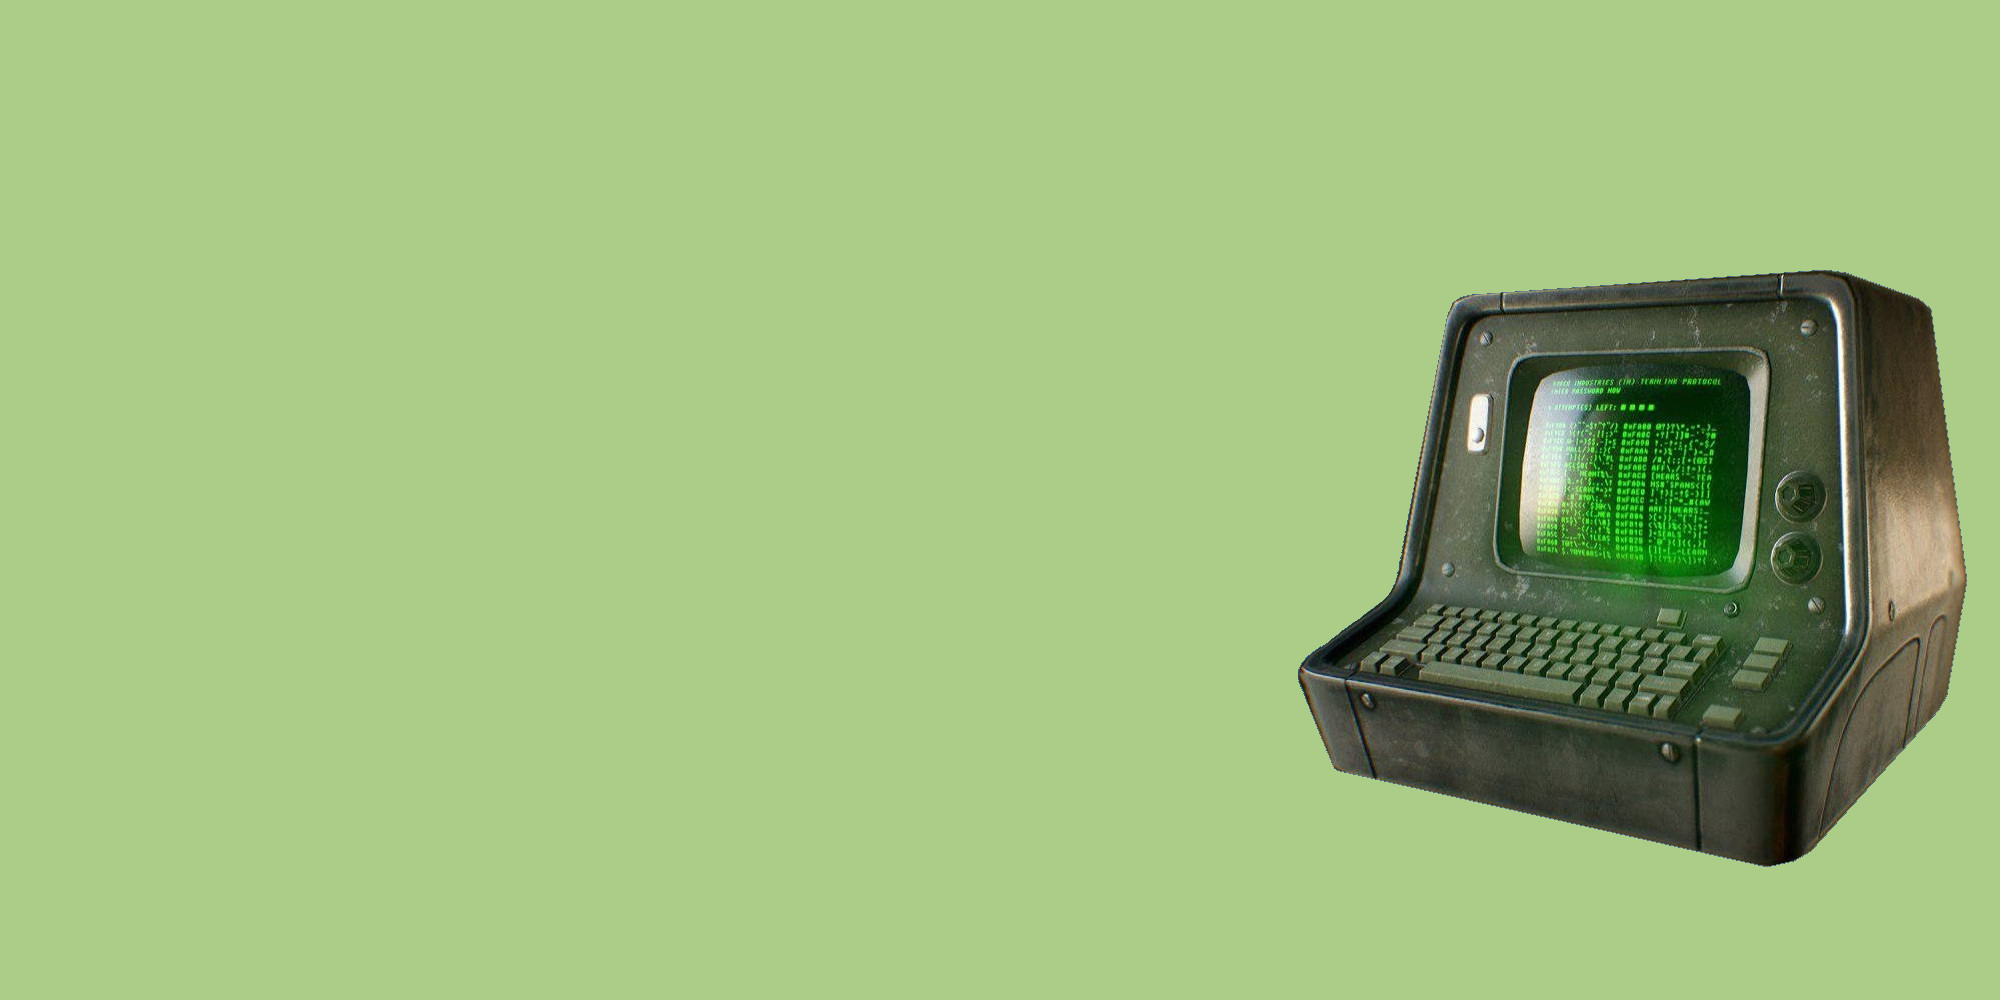
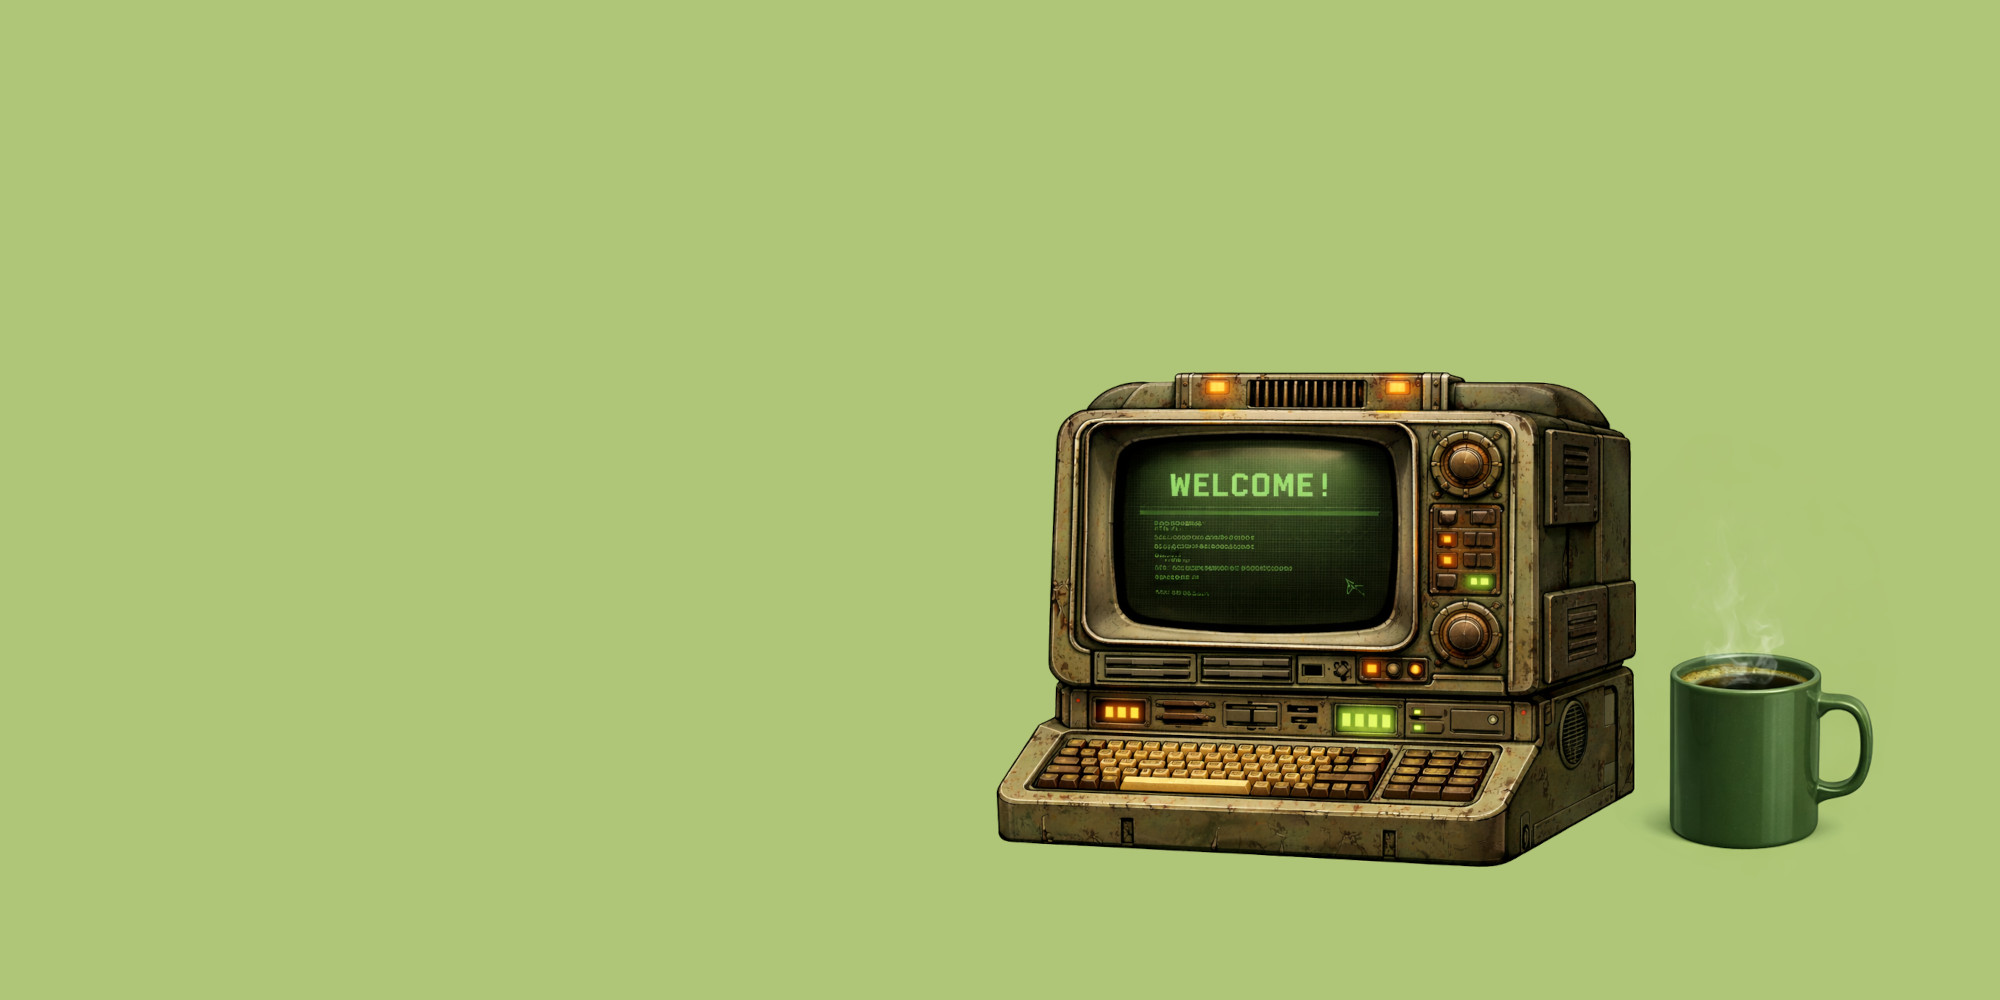
fix images

Changed region(s): [[0.496, 0.248, 0.992, 0.868]]

diff --git a/index.html b/index.html
@@ -64,7 +64,7 @@
 		<div class="container mb-40" id="intro">
 			<div class="hero-content">
 				<h1 class="hero-heading text-xxl">
-					C / C++ Software Developer
+					C / C++ Developer
 				</h1>
 				<div class="mb-40 desktop">
 				</div>
@@ -86,10 +86,10 @@
 					<br> 
 				</p>
 
-				<div id="laptop" class="desktop">
+				<!-- <div id="laptop" class="desktop">
 					<i class="fa-solid fa-mug-hot fa-7x"></i> 
 					<i class="fas fa-laptop fa-10x"></i>
-				</div>
+				</div> -->
 
 			</div>
 		</div>
@@ -487,7 +487,7 @@
 						</tr>
 						<tr>
 							<td>Version control</td>
-							<td>GIT, GitHub</td>
+							<td>Git, GitHub</td>
 							<td>Advanced user</td>
 							<td class="desktop">
 								<span class="fa-layers fa-fw">

diff --git a/css/style.css b/css/style.css
@@ -15,7 +15,7 @@ html {
 	--bg-mid: #225511;
 	--bg-mid-lgt: #336611;
 	--bg-lgt-drk: #89ab66;	
-	--bg-lgt: #abcd88;
+	--bg-lgt: #afc577;
 	--font-yel: #ffaa00;
 	--font-yel-hover: #ffff00;
 	--font-lgt: #abcd88;
@@ -107,6 +107,7 @@ img {
 }
 
 .hero .container {
+	background: url('../images/terminal.jpg') no-repeat;
 	background-size: contain;
 	background-position: center bottom;
 	height: 500px;
@@ -499,9 +500,10 @@ td {
 	}
 
 	.hero .container {
+		background: none;
 		background-size: 420px 400px;
 		background-position: bottom;
-		height: 550px;
+		height: 350px;
 	}
 
 	.hero .hero-content,
